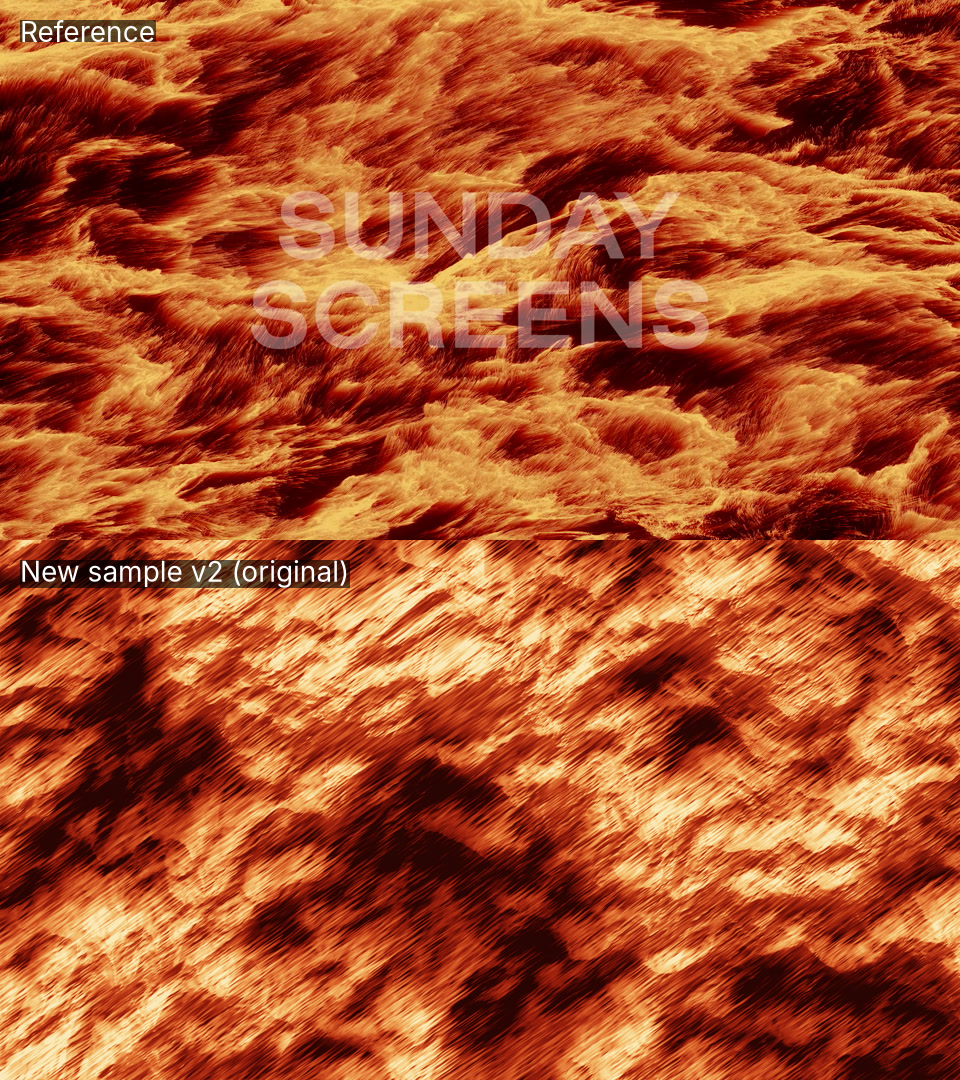
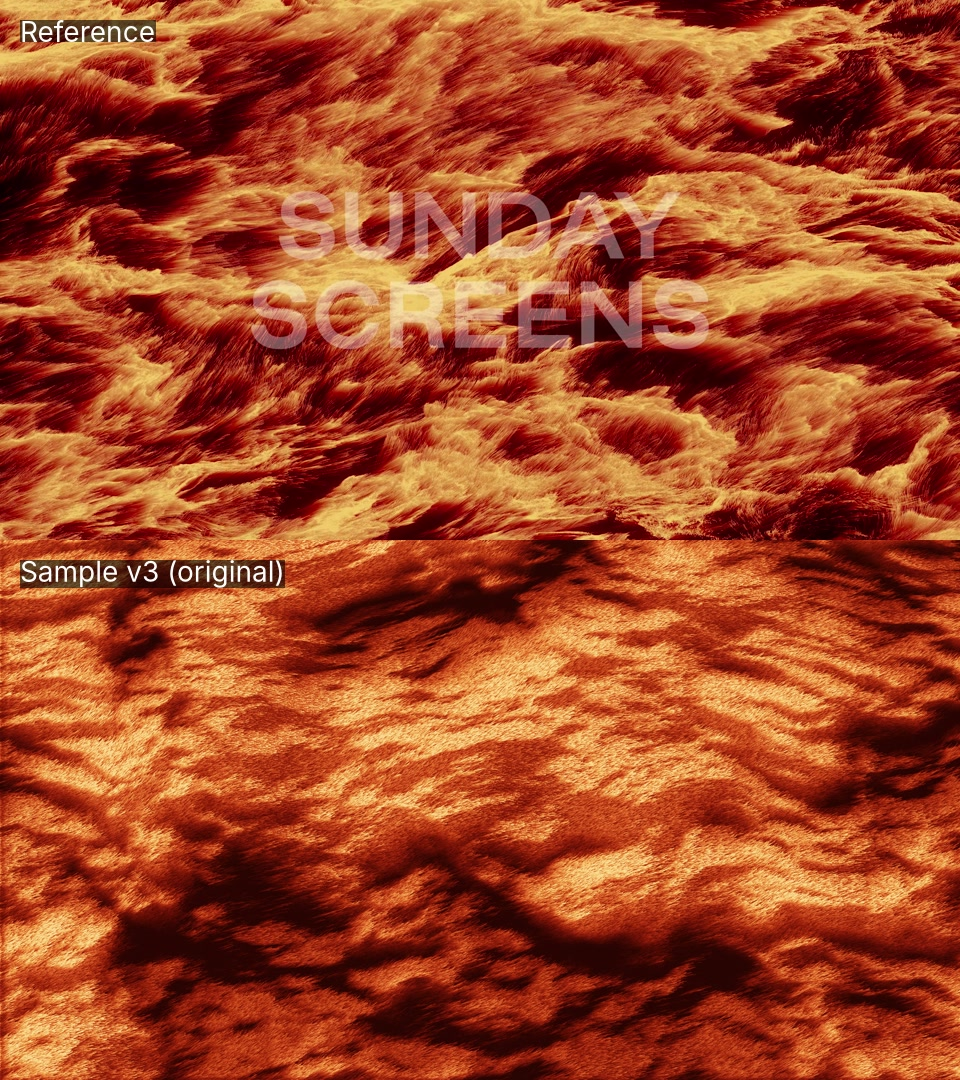
Draw individual hair strands; match reference tone and wave shape
Claude-Session: https://claude.ai/code/session_01Bqm48BSjvE1HPFUnjDACov

diff --git a/lava_loop.py b/lava_loop.py
@@ -22,12 +22,13 @@ from numba import njit, prange
 WARP_Q = 0.6    # strength of second warp stage
 WARP_B = 0.35   # how much the warp wobbles the clumps
 PERSP = 0.30    # 0 = flat top-down view, higher = more oblique
-PERSP_Y = 2.6   # vertical world extent factor (keeps clumps round)
-CLUMP = 1.2     # clump frequency (higher = smaller clumps)
+PERSP_Y = 2.6 
+WAVE_STRETCH = 0.55  # <1 stretches waves horizontally  # vertical world extent factor (keeps clumps round)
+CLUMP = 1.7     # clump frequency (higher = smaller clumps)
 BILLOW = 0.40
 FOLD_F = 2.0    # size of the cauliflower folds relative to clumps   # cauliflower folds on the clumps
 FOAM = 0.20     # fine crinkly detail on the clump tops
-FUR_ANG = 0.62  # hair angle on screen (radians, rising to the right)
+FUR_ANG = 0.30  # hair angle on screen (radians, rising to the right)
 FUR_LEN = 0.010 # how far (screen heights) clump edges smear into hairs
 HAIR_U = 18.0   # hair frequency along the hairs (lower = longer hairs)
 HAIR_V = 260.0   # hair frequency across the hairs (higher = thinner)
@@ -39,14 +40,23 @@ SH_STEPS = 14   # cast-shadow march length
 SH_SLOPE = 0.012
 SH_SOFT = 12.0
 SH_MIN = 0.25
-EDGE = 0.8      # crispness of cloud-top edges
-H_W = 0.62      # weight of clump height in colour
-D_W = 0.58      # weight of lighting in colour
+EDGE = 1.0      # crispness of cloud-top edges
+H_W = 0.80      # weight of clump height in colour
+D_W = 0.70      # weight of lighting in colour
 S_W = 0.14      # weight of thin hair lines in colour
-BIAS = -0.17
-LIC_LEN = 90.0  # fur streak length in pixels at 4K
-LIC_N = 12      # samples along each streak
-LIC_MIX = 0.85  # how much of the surface is combed into streaks
+BIAS = -0.11
+HAIR_SP = 6.0   # spacing of hair roots in pixels at 4K
+HAIR_LAYERS = 2 # hairs per root cell
+HAIR_LEN = 40.0 # hair length in pixels at 4K (near the bottom of frame)
+HAIR_BEND = 0.9 # how much the hair direction wanders across the frame
+HAIR_JIT = 0.45 # per-hair direction randomness
+HAIR_CURL = 0.5 # per-hair curvature
+HAIR_VAR = 0.12 # per-hair brightness randomness
+HAIR_ROOT = 0.30 # root brightness relative to tip
+HAIR_TIP = 0.10 # extra glow at the tip
+HAIR_ALPHA = 0.85
+HAIR_W = 2.5    # hair thickness in pixels at 4K
+BG_DIM = 0.65   # surface brightness showing between hairs
 
 # ---------------------------------------------------------------- noise ----
 
@@ -181,7 +191,7 @@ def _bilerp(f, c, fx, fy, w, h):
 def _world(px, py, aspect, scale):
     """Screen -> world coords for an obliquely viewed surface."""
     z = 1.0 / (1.0 - PERSP * (1.0 - py))
-    return (px - 0.5 * aspect) * z * scale, -z * scale * PERSP_Y
+    return (px - 0.5 * aspect) * z * scale * WAVE_STRETCH, -z * scale * PERSP_Y
 
 
 @njit(parallel=True, cache=True)
@@ -291,71 +301,107 @@ def shade(tone, hgt, stk, smo, W, H, lo, hi):
             tone[j, i] = H_W * hv + D_W * lit + BIAS
 
 
+@njit(inline="always", cache=True)
+def _rand(a, b, c):
+    """Deterministic hash -> [0, 1)."""
+    h = (a * 73856093 ^ b * 19349663 ^ c * 83492791) & 0xFFFFFFFF
+    h = ((h ^ (h >> 15)) * 2246822519) & 0xFFFFFFFF
+    h = ((h ^ (h >> 13)) * 3266489917) & 0xFFFFFFFF
+    h = h ^ (h >> 16)
+    return (h & 0xFFFFFF) / 16777216.0
+
+
+@njit(inline="always", cache=True)
+def _splat(img, zb, x, y, col, a, depth, W, H):
+    """Bilinear (anti-aliased) blend of one hair sample, nearer hairs win."""
+    xi = int(math.floor(x))
+    yi = int(math.floor(y))
+    fx = x - xi
+    fy = y - yi
+    for dy in range(2):
+        yy = yi + dy
+        if yy < 0 or yy >= H:
+            continue
+        wy = fy if dy == 1 else 1.0 - fy
+        for dx in range(2):
+            xx = xi + dx
+            if xx < 0 or xx >= W:
+                continue
+            if depth < zb[yy, xx] - 6.0:
+                continue
+            w = (fx if dx == 1 else 1.0 - fx) * wy * a
+            img[yy, xx] = img[yy, xx] * (1.0 - w) + col * w
+            if depth > zb[yy, xx]:
+                zb[yy, xx] = depth
+
+
 @njit(parallel=True, cache=True)
-def fur_pass(rgb, tone, stk, W, H, lut):
-    """Streak-blur the tone along the hair direction (line-integral
-    convolution). Each fibre gets its own length and brightness from the
-    thin hair noise, which turns the surface into combed fur."""
-    n = lut.shape[0]
+def draw_hairs(img, zb, tone, W, H, aspect, phase, scale):
+    """Grow individual hairs from a jittered grid of roots.
+
+    Each hair takes its brightness from the lit surface at its root, is dark
+    at the root and bright at the tip, and leans up-right with a direction
+    that wanders smoothly across the frame and sways over the loop.
+    """
     px_scale = W / 3840.0
-    ca = math.cos(FUR_ANG)
-    sa = math.sin(FUR_ANG)
-    # hairs grow toward the upper right, so look back down-left for their roots
-    bx = -ca
-    by = sa
-    L = LIC_LEN * px_scale
+    sp = HAIR_SP * px_scale
+    nx = int(W / sp) + 2
+    ny = int(H / sp) + int(HAIR_LEN * px_scale / sp) + 2
+    for gy in prange(ny):
+        for gx in range(nx):
+            for layer in range(HAIR_LAYERS):
+                r1 = _rand(gx, gy, layer * 7 + 1)
+                r2 = _rand(gx, gy, layer * 7 + 2)
+                r3 = _rand(gx, gy, layer * 7 + 3)
+                r4 = _rand(gx, gy, layer * 7 + 4)
+                r5 = _rand(gx, gy, layer * 7 + 5)
+                rx = (gx + r1 - 0.5) * sp
+                ry = (gy + r2 - 0.5) * sp
+                if rx < 0 or rx >= W or ry < 0 or ry >= H:
+                    continue
+                pyn = ry / H
+                persp = 1.0 - PERSP * (1.0 - pyn)      # nearer = bigger
+                # direction field: smooth wander + per-hair jitter + sway
+                wx = rx / H * 3.0
+                wy = pyn * 3.0
+                ang = (FUR_ANG + HAIR_BEND * fbm(wx, wy, phase, 2, 3, 401, 0.5)
+                       + HAIR_JIT * (r3 - 0.5))
+                curl = HAIR_CURL * (r4 - 0.5)
+                ln = HAIR_LEN * px_scale * persp * (0.45 + 0.9 * r5)
+                hw = HAIR_W * px_scale * persp
+                base = tone[int(ry), int(rx)]
+                bright = base + HAIR_VAR * (r3 - 0.5)
+                steps = int(ln * 1.5) + 2
+                ca = math.cos(ang)
+                sa = math.sin(ang)
+                x = rx
+                y = ry
+                stepl = ln / steps
+                for k in range(steps):
+                    t = k / (steps - 1)
+                    # dark root, glowing tip
+                    col = bright * (HAIR_ROOT + (1.0 - HAIR_ROOT) * t) + HAIR_TIP * t * t * t
+                    a = HAIR_ALPHA * (1.0 - 0.5 * t)
+                    # thickness: a few parallel samples across the hair
+                    wid = hw * (1.0 - 0.55 * t)
+                    o = -0.5 * wid
+                    while o <= 0.5 * wid + 1e-3:
+                        _splat(img, zb, x + sa * o, y + ca * o, col, a, ry, W, H)
+                        o += 1.0
+                    a2 = curl * stepl / ln
+                    c2 = ca * math.cos(a2) - sa * math.sin(a2)
+                    sa = sa * math.cos(a2) + ca * math.sin(a2)
+                    ca = c2
+                    x += ca * stepl
+                    y -= sa * stepl
+
+
+@njit(parallel=True, cache=True)
+def to_rgb(rgb, img, W, H, lut):
+    n = lut.shape[0]
     for j in prange(H):
         for i in range(W):
-            f = stk[j, i]                       # fibre noise, roughly -0.6..0.6
-            # crisp per-fibre length: most fibres long, some short
-            fl = 0.55 + f * 2.5
-            if fl < 0.1:
-                fl = 0.1
-            if fl > 1.0:
-                fl = 1.0
-            ln = L * fl
-            acc = 0.0
-            wsum = 0.0
-            for k in range(LIC_N):
-                s_ = ln * k / (LIC_N - 1)
-                x = i + bx * s_
-                y = j + by * s_
-                xi = int(x)
-                yi = int(y)
-                if xi < 0:
-                    xi = 0
-                if yi < 0:
-                    yi = 0
-                if xi > W - 2:
-                    xi = W - 2
-                if yi > H - 2:
-                    yi = H - 2
-                tx = x - xi
-                ty = y - yi
-                if tx < 0.0:
-                    tx = 0.0
-                if ty < 0.0:
-                    ty = 0.0
-                if tx > 1.0:
-                    tx = 1.0
-                if ty > 1.0:
-                    ty = 1.0
-                a0 = tone[yi, xi] + tx * (tone[yi, xi + 1] - tone[yi, xi])
-                a1 = tone[yi + 1, xi] + tx * (tone[yi + 1, xi + 1] - tone[yi + 1, xi])
-                w = 0.35 + 0.65 * k / (LIC_N - 1)   # a fibre carries its root's colour
-                acc += w * (a0 + ty * (a1 - a0))
-                wsum += w
-            streak = acc / wsum
-            base = tone[j, i]
-            # fibre sheen: thin bright/dark lines across the streaks
-            g = f * 3.0
-            if g > 1.0:
-                g = 1.0
-            if g < -1.0:
-                g = -1.0
-            # bright crinkly tops stay crisp; slopes and gaps are combed
-            mix = LIC_MIX * (1.0 - 0.55 * min(max(base, 0.0), 1.0))
-            t = base + mix * (streak - base) + S_W * g
+            t = img[j, i]
             if t < 0.0:
                 t = 0.0
             if t > 1.0:
@@ -378,9 +424,9 @@ def make_lut(n=1024):
         (0.36, (162, 34, 14)),
         (0.52, (204, 74, 30)),
         (0.68, (230, 128, 60)),
-        (0.82, (242, 182, 102)),
-        (0.93, (247, 214, 144)),
-        (1.00, (250, 234, 186)),
+        (0.82, (238, 168, 78)),
+        (0.93, (244, 198, 112)),
+        (1.00, (248, 220, 150)),
     ]
     xs = np.linspace(0, 1, n)
     lut = np.zeros((n, 3), np.float32)
@@ -410,6 +456,8 @@ def main():
     stk = np.zeros((H, W), np.float32)
     smo = np.zeros((H, W), np.float32)
     tone = np.zeros((H, W), np.float32)
+    img = np.zeros((H, W), np.float32)
+    zb = np.zeros((H, W), np.float32)
     rgb = np.zeros((H, W, 3), np.uint8)
     lut = make_lut()
 
@@ -420,7 +468,10 @@ def main():
         warp_field(warp, ww, wh, aspect, phase, a.scale)
         height_field(hgt, stk, smo, warp, W, H, ww, wh, aspect, phase, a.scale)
         shade(tone, hgt, stk, smo, W, H, -0.30, 0.30)
-        fur_pass(rgb, tone, stk, W, H, lut)
+        img[:] = tone * BG_DIM
+        zb[:] = -1e9
+        draw_hairs(img, zb, tone, W, H, aspect, phase, a.scale)
+        to_rgb(rgb, img, W, H, lut)
         if a.out:
             import subprocess
             p = subprocess.run(
